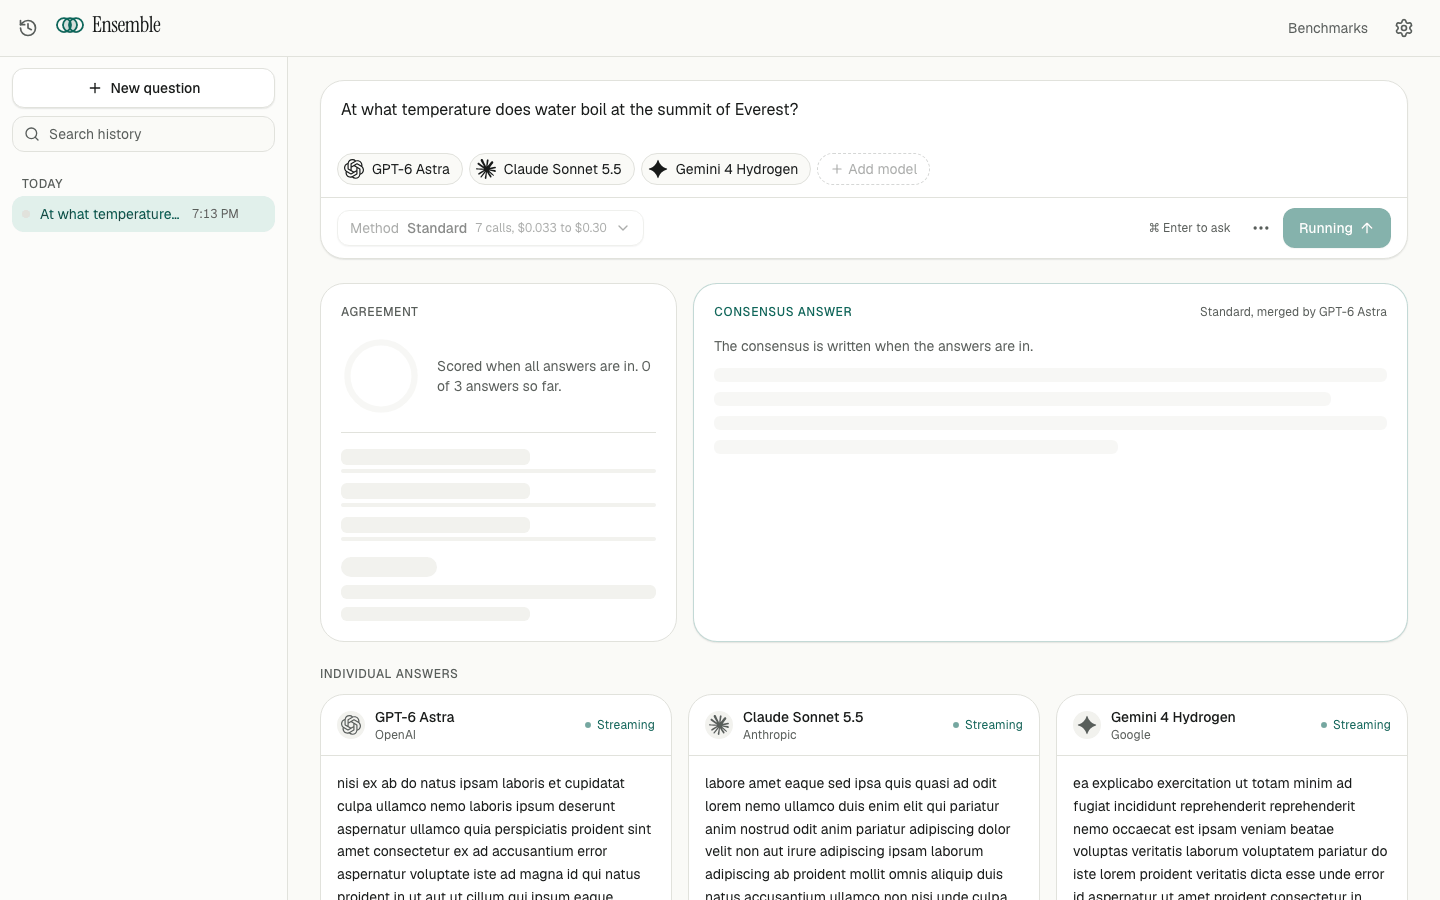
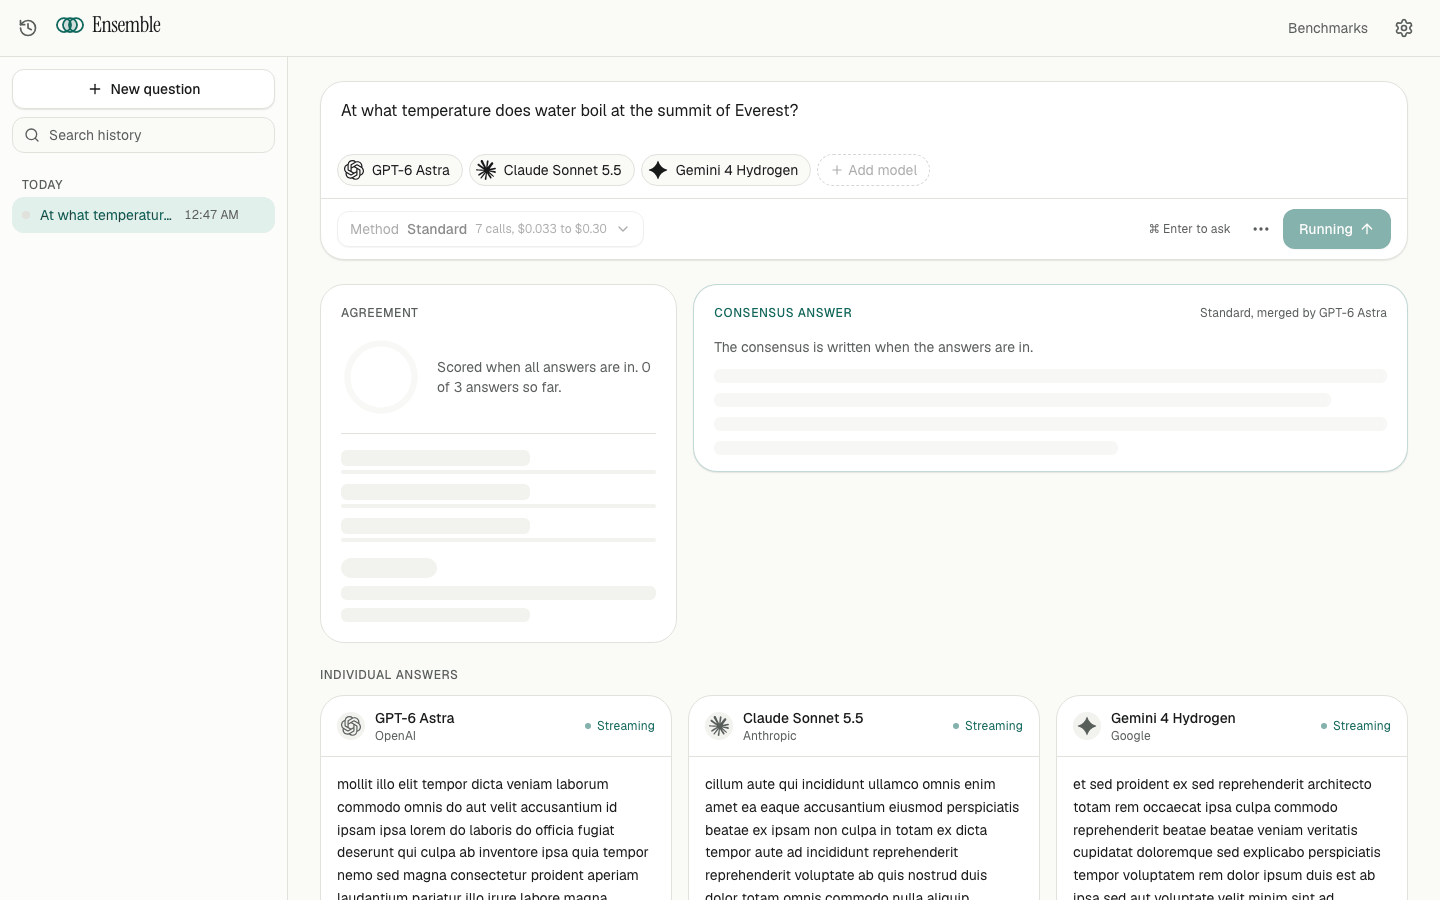
docs(app): retake the 1440 px screenshots that show the consensus panel

diff --git a/packages/app/docs/screenshots/m4/README.md b/packages/app/docs/screenshots/m4/README.md
@@ -34,3 +34,5 @@ Captured for review of the M4 wireframes and visual refresh, at 375, 768 and 144
 | `history-open` | Same, the first run reopened from history | A saved run on screen read only, with the note that nothing is sent again |
 
 The `app-*` captures show the app's workspace wired to the store in mock mode, so answers and the consensus are placeholder text and their length is not realistic. The `cl-*` captures show the workspace components in Storybook with sample data, before the app is wired to them.
+
+The 1440 px `app-running`, `app-done`, `history`, `history-open`, `cl-running`, `cl-workspace`, `cl-method` and `cl-models` captures were retaken after the agreement card stopped stretching to the height of the consensus. The `wf-*` captures were not retaken: they come from the wireframes app, which does not use `ConsensusPanel`. Below 1024 px the two cards stack, so the 375 and 768 px captures did not change.
